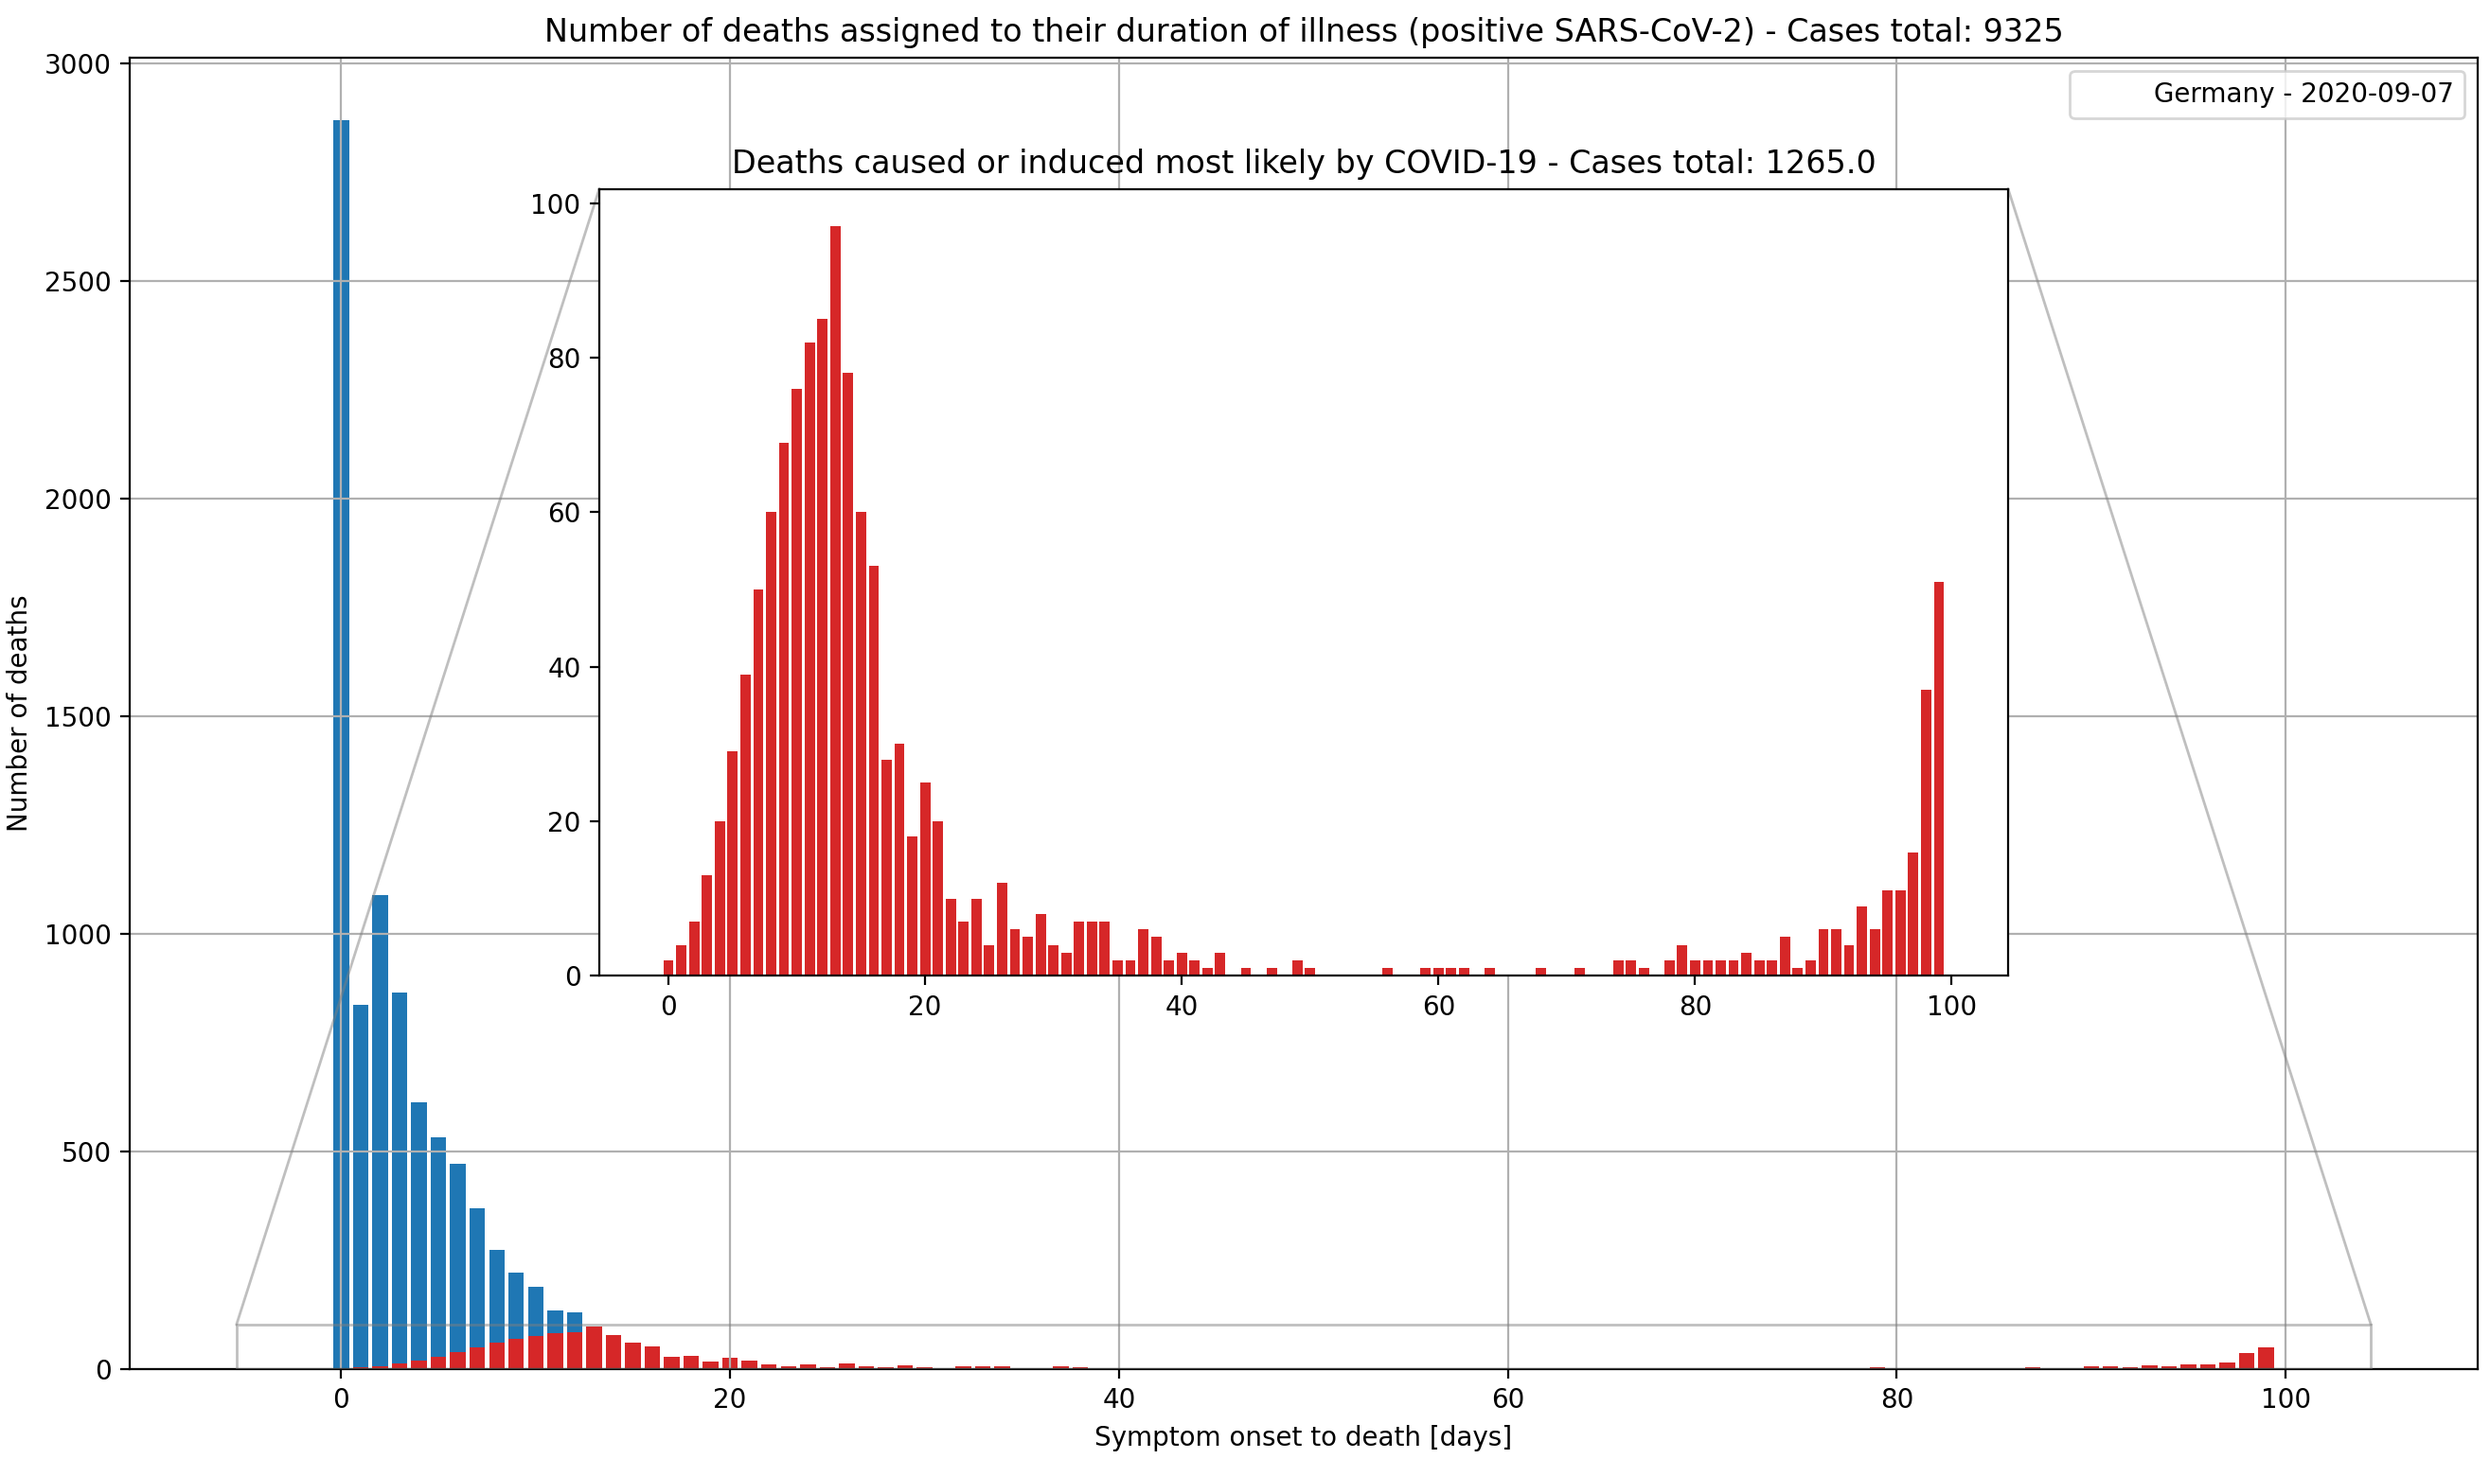
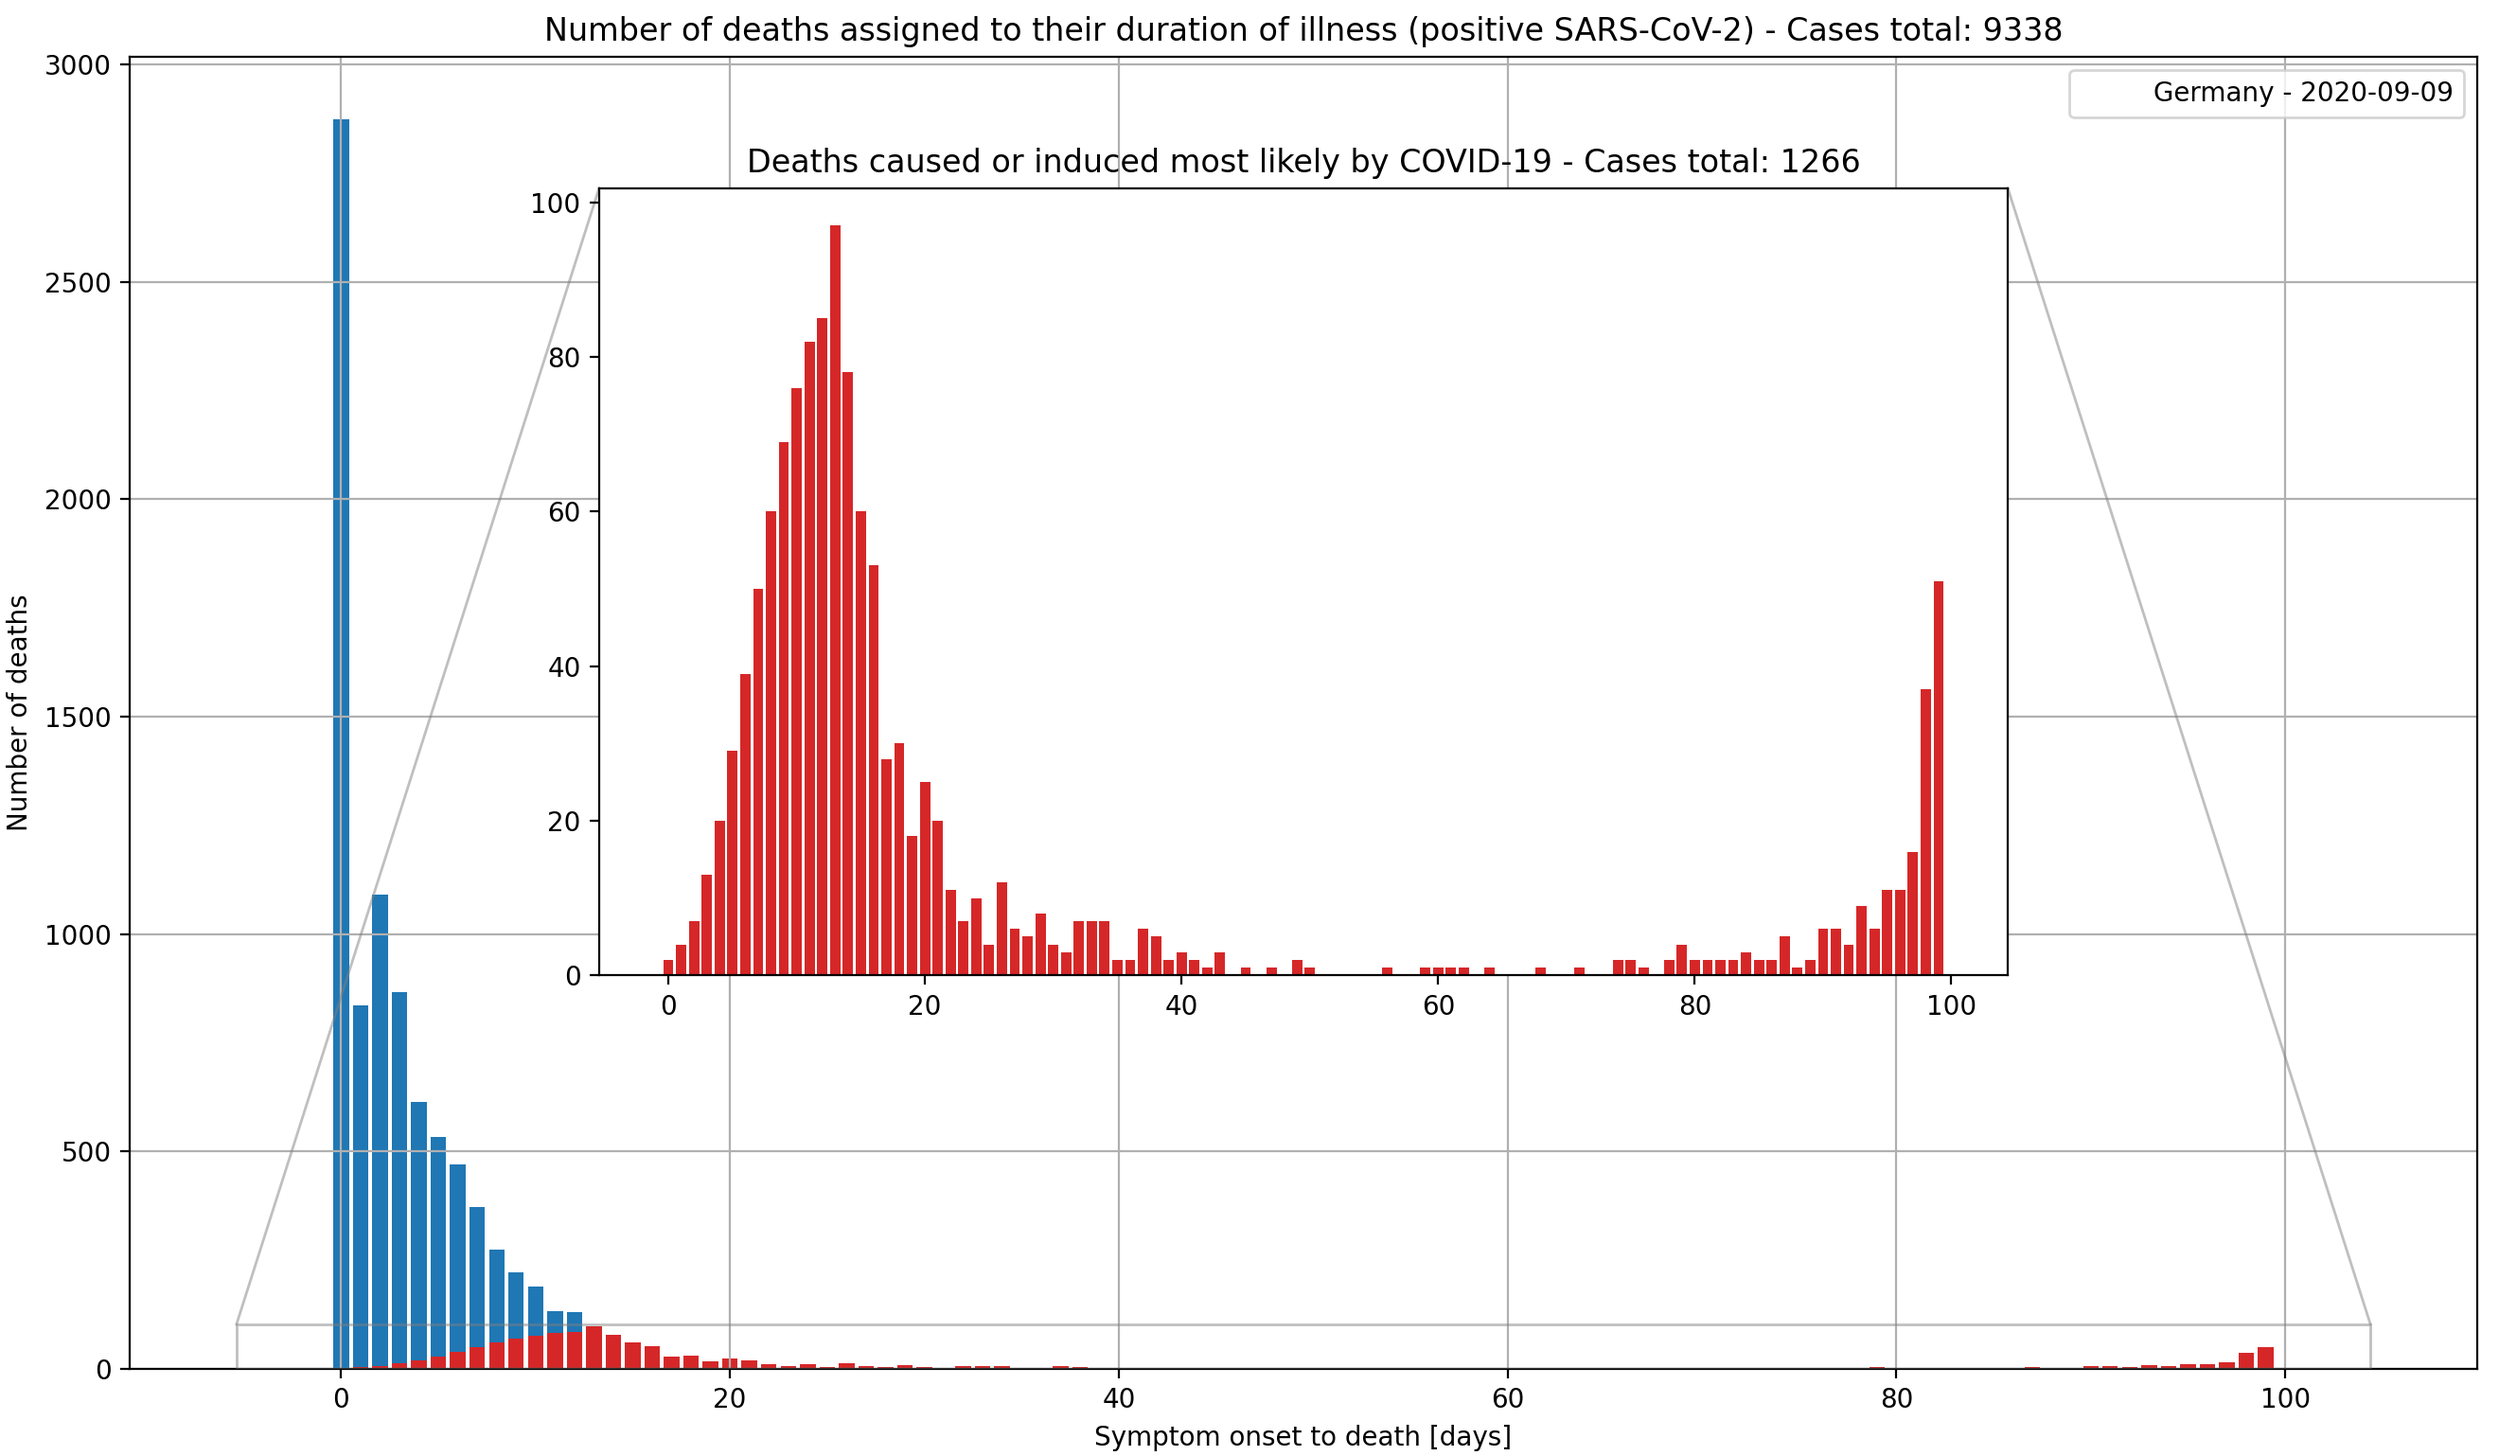
Finalize and publish covid-19-deaths-germany

diff --git a/2020/covid-19-deaths-germany/index.html b/2020/covid-19-deaths-germany/index.html
@@ -7,7 +7,7 @@
 <script src="../../assets/lib/template.v1.js"></script>
 <script type="text/front-matter">
   title: Durch SARS-CoV-2 verursachte oder induzierte Todesfälle in Deutschland
-  description: Gegenüberstellung der Erkrankungsdauer und den daraus resultierten Todesfällen
+  description: Gegenüberstellung der Erkrankungsdauer und deren entsprechenden Todesfällen
   authors:
     - Richard Schubert: http://rs.hemofektik.de
   affiliations:
@@ -68,18 +68,19 @@
 
   <dt-byline class="l-page"></dt-byline>
 
-  <h2>Gegenüberstellung der Erkrankungsdauer und den daraus resultierten Todesfällen</h2>
+  <h2>Characteristik von Todesfällen im Zusammen-hang mit COVID-19</h2>
   <p>
     Jeder Todesfall ist tragisch und bedauerlich. Durch COVID-19 vorzeitig gestorbene
     Personen hatten ohne die Infektion möglicherweise noch eine mehrjährige Lebenserwartung aufweisen können.
     <br />
     Bei Todesfällen mit einem positiven SARS-CoV-2 Test wird zur Zeit nicht unterschieden ob diese unmittelbar durch
     COVID-19 entstanden sind („gestorben an“) oder ob diesen eine andere Todesursache zugegewiesen werden kann
-    („gestorben mit“) <dt-cite key="RKI2020FAQ"></dt-cite>.
+    („gestorben mit“). Diese Todesfälle werden zu der COVID-19 Statistik hinzugerechnet <dt-cite key="RKI2020FAQ">
+    </dt-cite>.
     <br />
 
-    Für COVID-19 ist üblicherweise eine schwere Pneumonie mit Lungenversagen oder eine Pulmonalarterienthrombembolie die
-    auslösende Todesursache <dt-cite key="Edler2020"></dt-cite>
+    Für den Krankheitsverlauf von COVID-19 mit Todesfolge ist üblicherweise eine schwere Pneumonie mit Lungenversagen
+    oder eine Pulmonalarterienthrombembolie die auslösende Todesursache <dt-cite key="Edler2020"></dt-cite>
     <dt-cite key="Karagiannidis2020"></dt-cite>
     <dt-cite key="Guan2020"></dt-cite>.
 
@@ -107,9 +108,13 @@
     Für Patienten mit akutem Lungenversagen wurde eine mittlere Zeitspanne von sieben Tagen berichtet, die von
     Symptombeginn bis Hospitalisierung verging. Die mittlere Zeitspanne von Symptombeginn bis Pneumonie beträgt vier
     Tage und bis zum akuten Lungenversagen acht Tage <dt-cite key="RKI2020"></dt-cite>. Die mittlere Zeitspanne von
-    Symptombeginn bis zum Tod wurde in verschiedenen Studien im mittel bei 16 Tagen festgestelt. <dt-cite
-      key="Khalili2020"></dt-cite>.
-    <br />
+    Symptombeginn bis zum Tod wurde in einer Metastudie im Mittel bei 16 Tagen festgestellt. <dt-cite key="Khalili2020">
+    </dt-cite>. In einer Fallserie wird die mittlere Dauer von Symptombeginn bis zum Tod mit 18 Tagen angegeben <dt-cite
+      key="Verity2020">
+    </dt-cite>.
+  </p>
+  <h2>Gegenüberstellung der Erkrankungsdauer und deren entsprechenden Todesfällen</h2>
+  <p>
     Für die hier aufgestellte Analyse wird der konservativste Wert (mininimal 13 Tage, 95 %-Konfidenzintervall <dt-cite
       key="Khalili2020"></dt-cite>) für die mittlere Zeitspanne von Symptombeginng bis zum eintreten des Todes
     verwendet. Eine ausreichende Ausbreitung des Virus und die damit einhergehenden Beeinträchtigungen auf den
@@ -131,24 +136,17 @@
       wahrscheinlich nicht der Infektion mit SARS-CoV-2 zugeschrieben werden kann.
       Todesfälle <svg id="symptoms-indicator"
         style="position:relative; top:2px; width:3px; height:14px; background:#D62728"></svg> die
-      wahrscheinlich durch SARS-CoV-2 verursacht oder induziert wurden. Stand 06.09.2020
+      wahrscheinlich durch SARS-CoV-2 verursacht oder induziert wurden. Stand 09.09.2020
     </figcaption>
   </figure>
 
   <p>
-    Die über 2800 Todesfälle (asymptomatisch) welche ohne Symptome oder Krankheitsverlauf gestorben sind und nur mit
-    einem positiven
-    SARS-CoV-2 Test.
-    Wenn man Todesfälle vor dem siebten Tag nach Symptombeginn wie zuvor beschrieben nicht zu den COVID-19 Todesfällen
-    zählen kann, ergibt sich, dass weniger als 14% (1265 von 9325) der offiziell gezählten Todesfälle auch COVID-19
-    zugeschrieben werden kann. Die falsch-positiven Fälle sind hier noch enthalten. Daher ist anzunehmen, dass die Zahl
-    der Todesfälle noch geringer sein wird.
-    Wenn man das Mittel vom Symptombeginn bis zum Tod liegt hier weit unter dem normalen mittel (16-18 Tage) als Maßstab
-    anlegt, würden die Zahlen nur wenige hundert betragen.
-    Mean time from onset of symptoms to death
-
-    In einer Fallserie wird die mittlere Dauer von Symptombeginn bis zum Tod mit 18 Tagen <dt-cite key="Verity2020">
-    </dt-cite>.
+    Über 2800 der gezählten Todesfälle waren asymptomatisch ohne einen dokumentierten Krankheitsverlauf.
+    Die statistische Betrachtung zeigt, dass weniger als 14% (1265 von 9325) der offiziell gezählten Todesfälle auch
+    COVID-19 als deren Ursache zugeschrieben werden können. Da hier der nach den Studien frühstmögliche mittlere
+    Zeitraum für einen zu erwarteten Todesfall angenommen wird, ist diese Zahl die wahrscheinliche Obergrenze. Fälle mit
+    falsch-positiven PCR-Tests sind hier ebenfalls enthalten. Diese beiden Aspekte führen dazu, dass die Zahl der mit
+    COVID-19 in Verbindung stehenden Todesfälle noch geringer sein wird als hier dargestellt.
 
     <br />
     Krankenhausaufenthalte mit Todesfolge mit einer Dauer von mehr als 80 Tagen sind äußerst selten <dt-cite
@@ -158,9 +156,12 @@
     jeweiligen Krankenhausaufenthalt aufgetreten. Diese Todesfälle sind wahrscheinlich durch COVID-19 induziert,
     auch wenn COVID-19 kuriert wurde.
   </p>
+
+  <h2 id="conclusions">Zusammenfassung und Fazit</h2>
   <p>
-    - Konklusion?
-    Warum ist diese Betrachtungsweise valide?
+    Die hier dargestellte Betrachtungsweise der verfügbaren Daten zeigt deutlich, dass die aktuell angewandte Methode
+    zur Zählung der COVID-19 Todesfälle ein stark verzerrtes Bild der Realität erzeugt. Eine spezifischere
+    Vorgehensweise zur Zählung sollte erdacht und angewendet werden, welches dieses Defizit korrigiert.
   </p>
 </dt-article>
 
@@ -183,7 +184,6 @@
   <p>
     <a href="https://github.com/distillpub/post--momentum/issues/29">Reviewer A - Matt Hoffman</a><br>
     <a href="https://github.com/distillpub/post--momentum/issues/34">Reviewer B - Anonymous</a><br>
-    <a href="https://github.com/distillpub/post--momentum/issues/51">Discussion with User derifatives</a>
   </p>-->
 
   <h3 id="updates-and-corrections">Aktualisierung und Korrekturen</h3>

diff --git a/index.html b/index.html
@@ -1116,9 +1116,9 @@ table {
 
   <div class="posts-list l-page">
 
-    <!--<div class="post-preview commentary">
+    <div class="post-preview commentary">
       <div class="metadata">
-        <div class="publishedDate">Sept. 20, 2020</div>
+        <div class="publishedDate">Sept. 9, 2020</div>
         <div class="tags">
           <span class="tag commentary">Draft</span>
         </div>
@@ -1128,10 +1128,10 @@ table {
         <div class="description">
           <h2 class="title">Durch SARS-CoV-2 verursachte oder induzierte Todesfälle in Deutschland</h2>
           <p class="authors">Richard&nbsp;Schubert</p>
-          <p class="abstract">Gegenüberstellung der Erkrankungsdauer und den daraus resultierten Todesfällen</p>
+          <p class="abstract">Gegenüberstellung der Erkrankungsdauer und deren entsprechenden Todesfällen</p>
         </div>
       </a>
-    </div>-->
+    </div>
 
     <div class="post-preview commentary">
       <div class="metadata">
